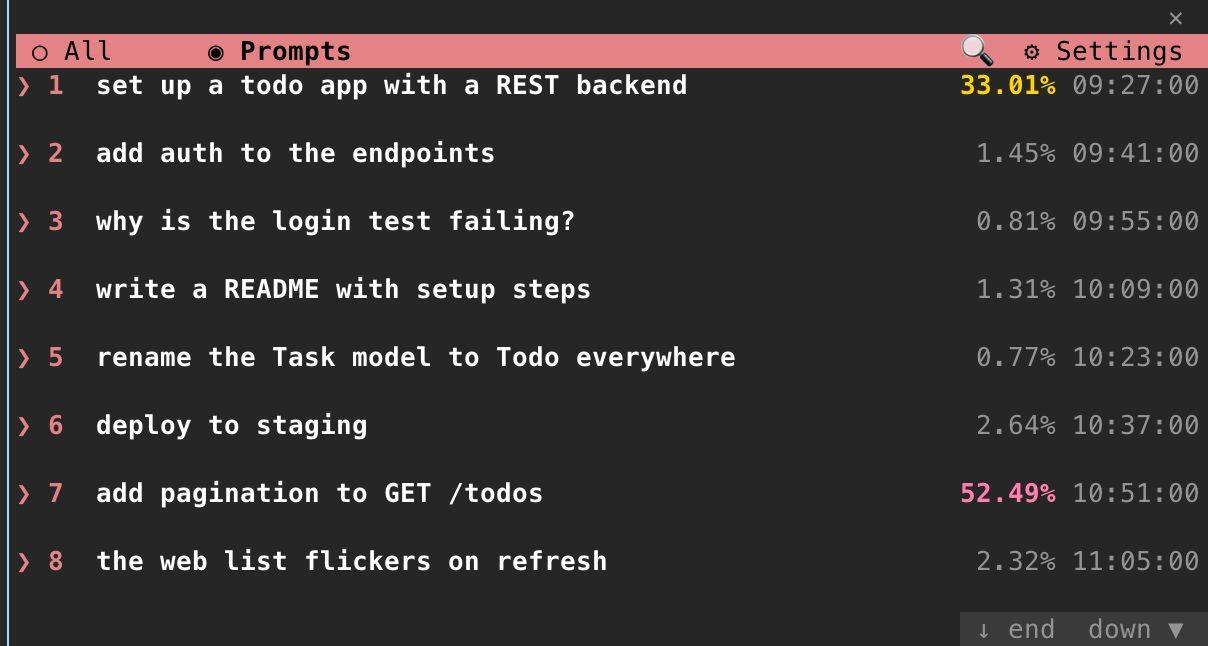
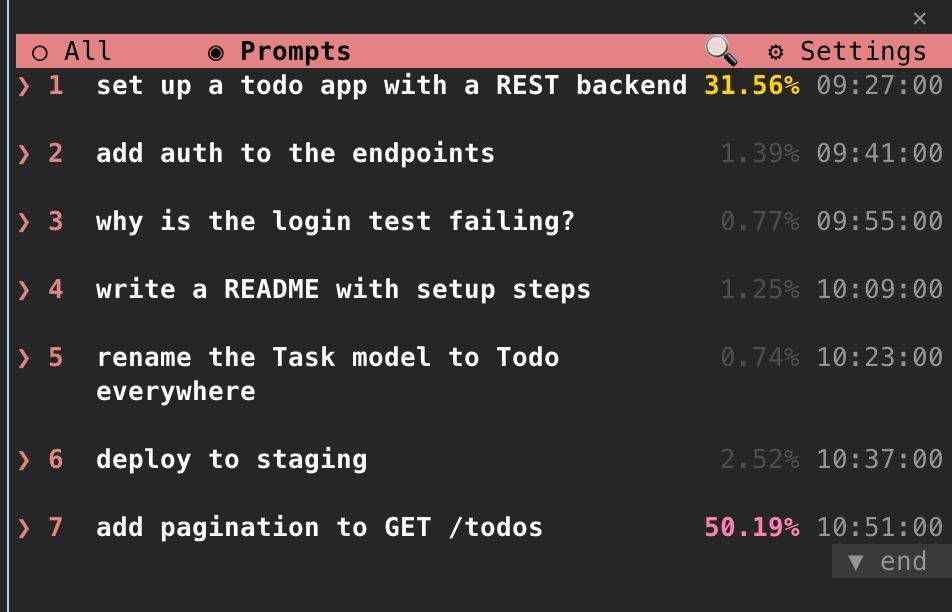
docs(prompt-toc): refresh pane screenshots for top/end buttons

diff --git a/plugins/prompt-toc/README.md b/plugins/prompt-toc/README.md
@@ -32,11 +32,11 @@ The chips at the top of the pane switch between two views of the same session.
 
 **All** puts what came back under each prompt: the `#`–`###` headings of the reply, or, when the reply has none, a `↳` line with the start of the final answer. Each turn gets its own line, including turns started by a background agent reporting back, so a long `/orch` run lists every update and not only the last one. Use it to find the turn where something was said or decided, not only the question that led to it.
 
-![The All view: each prompt with a ↳ preview of its reply](https://raw.githubusercontent.com/weskao/weskao-agent-plugins/main/assets/prompt-toc/pane-all.jpeg?v=2)
+![The All view: each prompt with a ↳ preview of its reply](https://raw.githubusercontent.com/weskao/weskao-agent-plugins/main/assets/prompt-toc/pane-all.jpeg?v=3)
 
 **Prompts** keeps only the lines you typed, one per prompt, numbered and timed. More of the session fits on screen, so it is the quick way to jump back to an earlier request.
 
-![The Prompts view: one numbered, timed row per prompt](https://raw.githubusercontent.com/weskao/weskao-agent-plugins/main/assets/prompt-toc/pane-prompts.jpeg?v=2)
+![The Prompts view: one numbered, timed row per prompt](https://raw.githubusercontent.com/weskao/weskao-agent-plugins/main/assets/prompt-toc/pane-prompts.jpeg?v=3)
 
 In both views, rows above a `/compact` are dimmed under a `── compacted ──` divider; press *▴ hide earlier* to fold them away. The `▲ top · ▼ end` buttons jump to either end of the list (they work for touch terminals that tap but send no wheel, such as an iPhone SSH app). They show in the docked and the inline pane alike.
 
